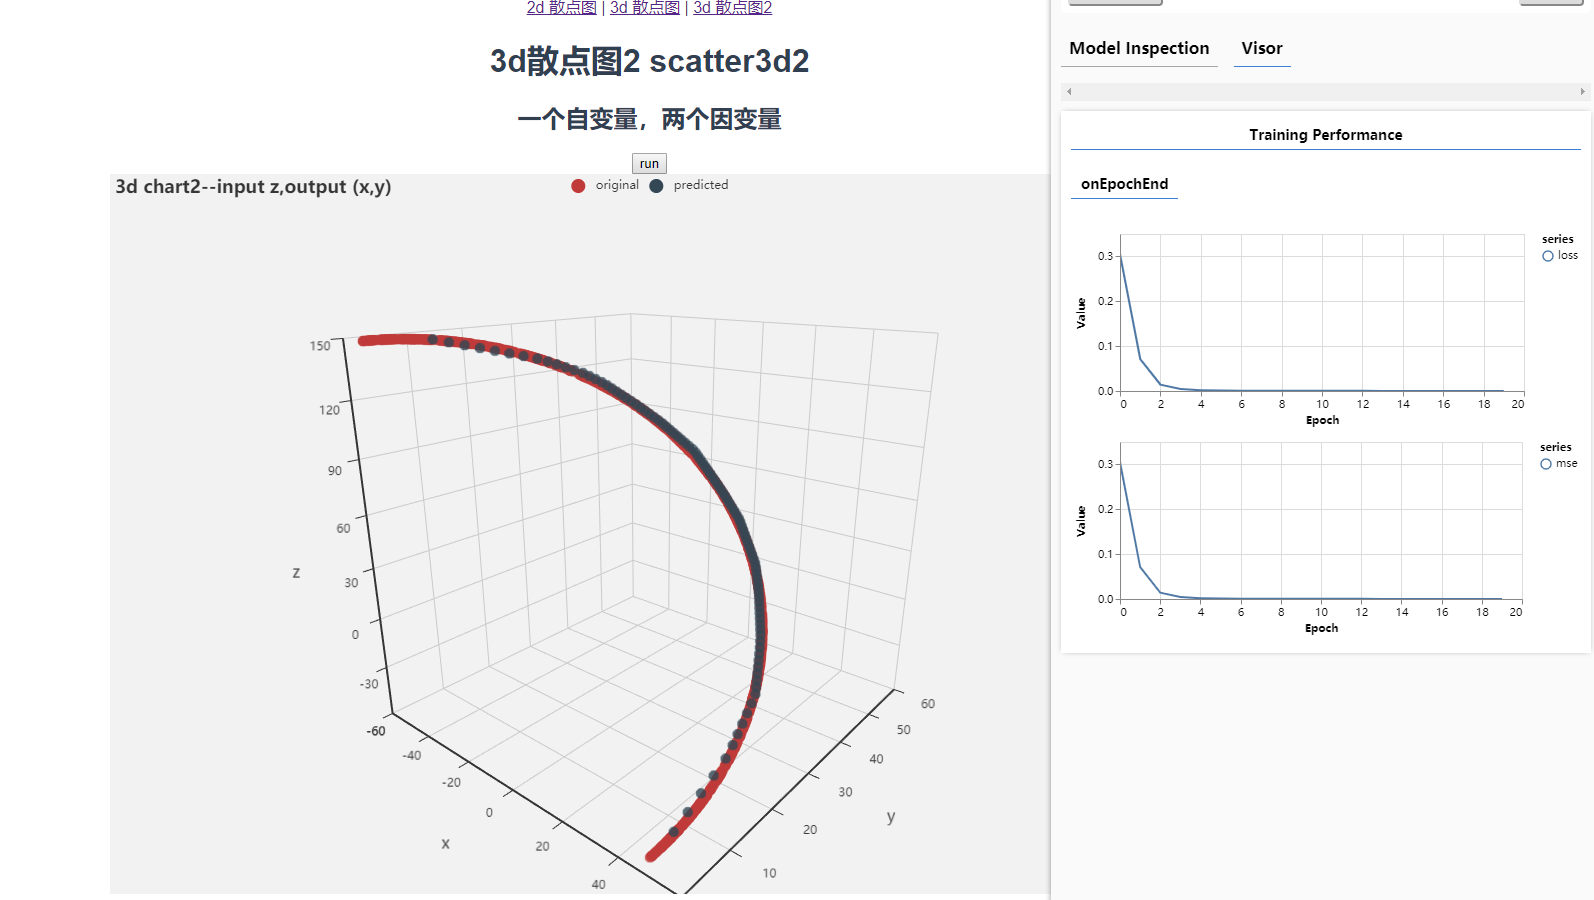
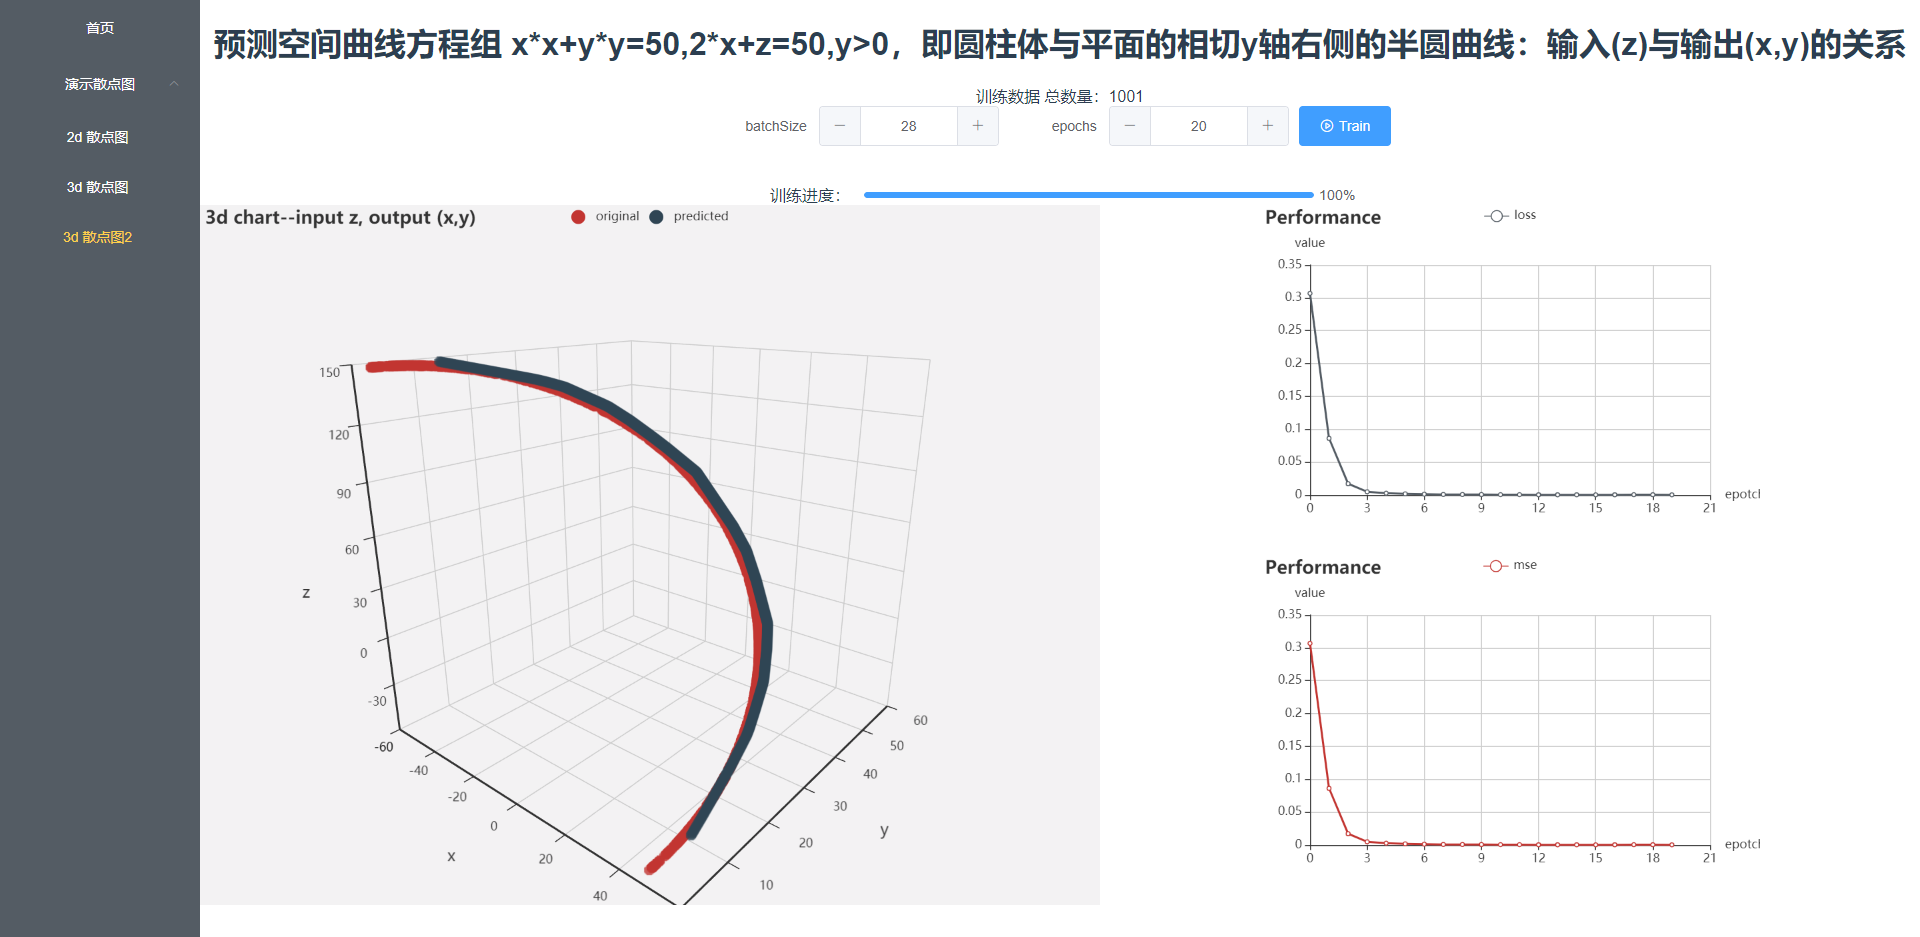
U pic and conclude

diff --git a/README.md b/README.md
@@ -13,17 +13,20 @@
 
 2. 新增加两个输出的模拟，可见在选取唯一坐标对(x,y)的正解的空间曲线下，能够根据 z 值，预测(x,y)值进行拟合。
 
+3. 总结就是输入输出的变量维度的多少，只影响输入输出的形状，原理是一样的。
+
 ## 更新
 
 - [x] 20200101: 升级界面，交互
 - [x] 20200101: typescript 重构【1/3】
 - [x] 20200113: 升级图表组件化，代码逻辑更清晰分明
+- [x] 20200118: 精简代码，typescript 重构【3/3】
 
 ## 演示
 
 二维数据拟合--一对一输入输出
 
-![二维数据拟合--一对一输入输出](./2d.png)
+![二维数据拟合--一对一输入输出](./scatter2d.png)
 
 三维数据拟合--多输入
 
@@ -33,14 +36,14 @@
 
 ![三维数据拟合 2--多输出](./scatter3d2.png)
 
-## 直接使用
+## 使用
 
 ```sh
 yarn
 yarn serve
 ```
 
-点击 run 即可训练模型，观察损失，最后输出预测结果
+点击`Train`按钮开始训练模型，观察损失，最后输出预测结果
 
 ## 起步构建
 
